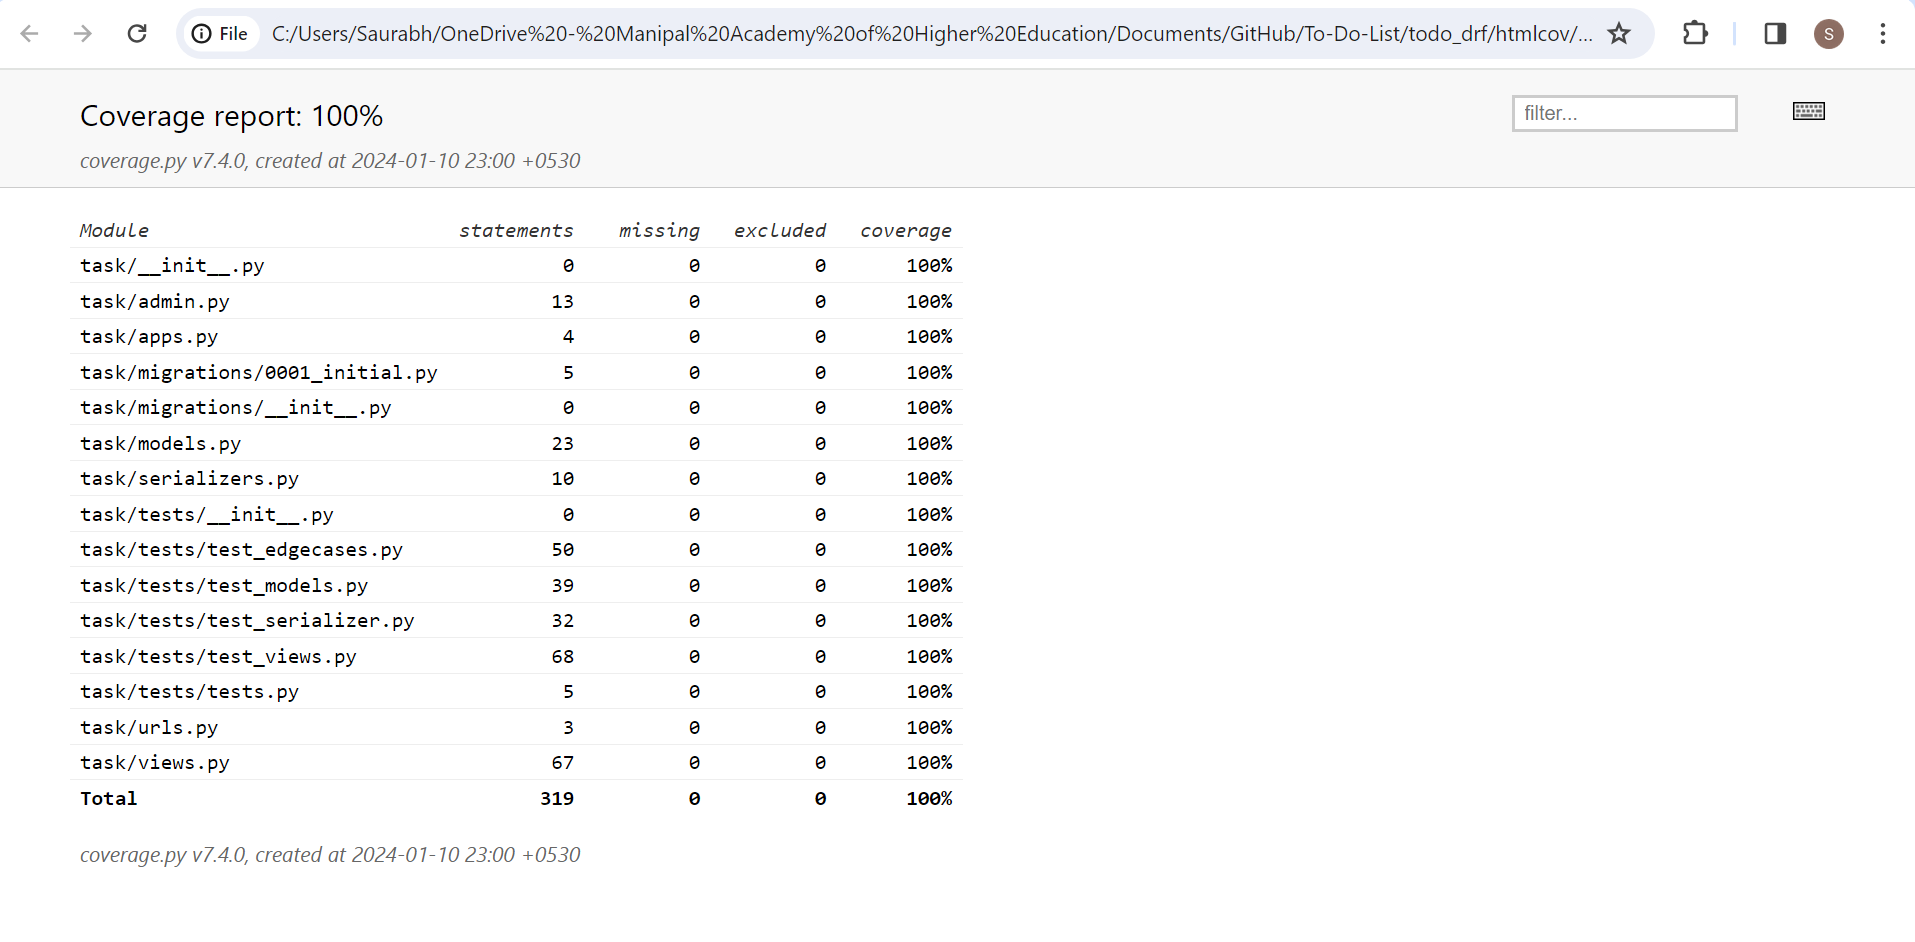
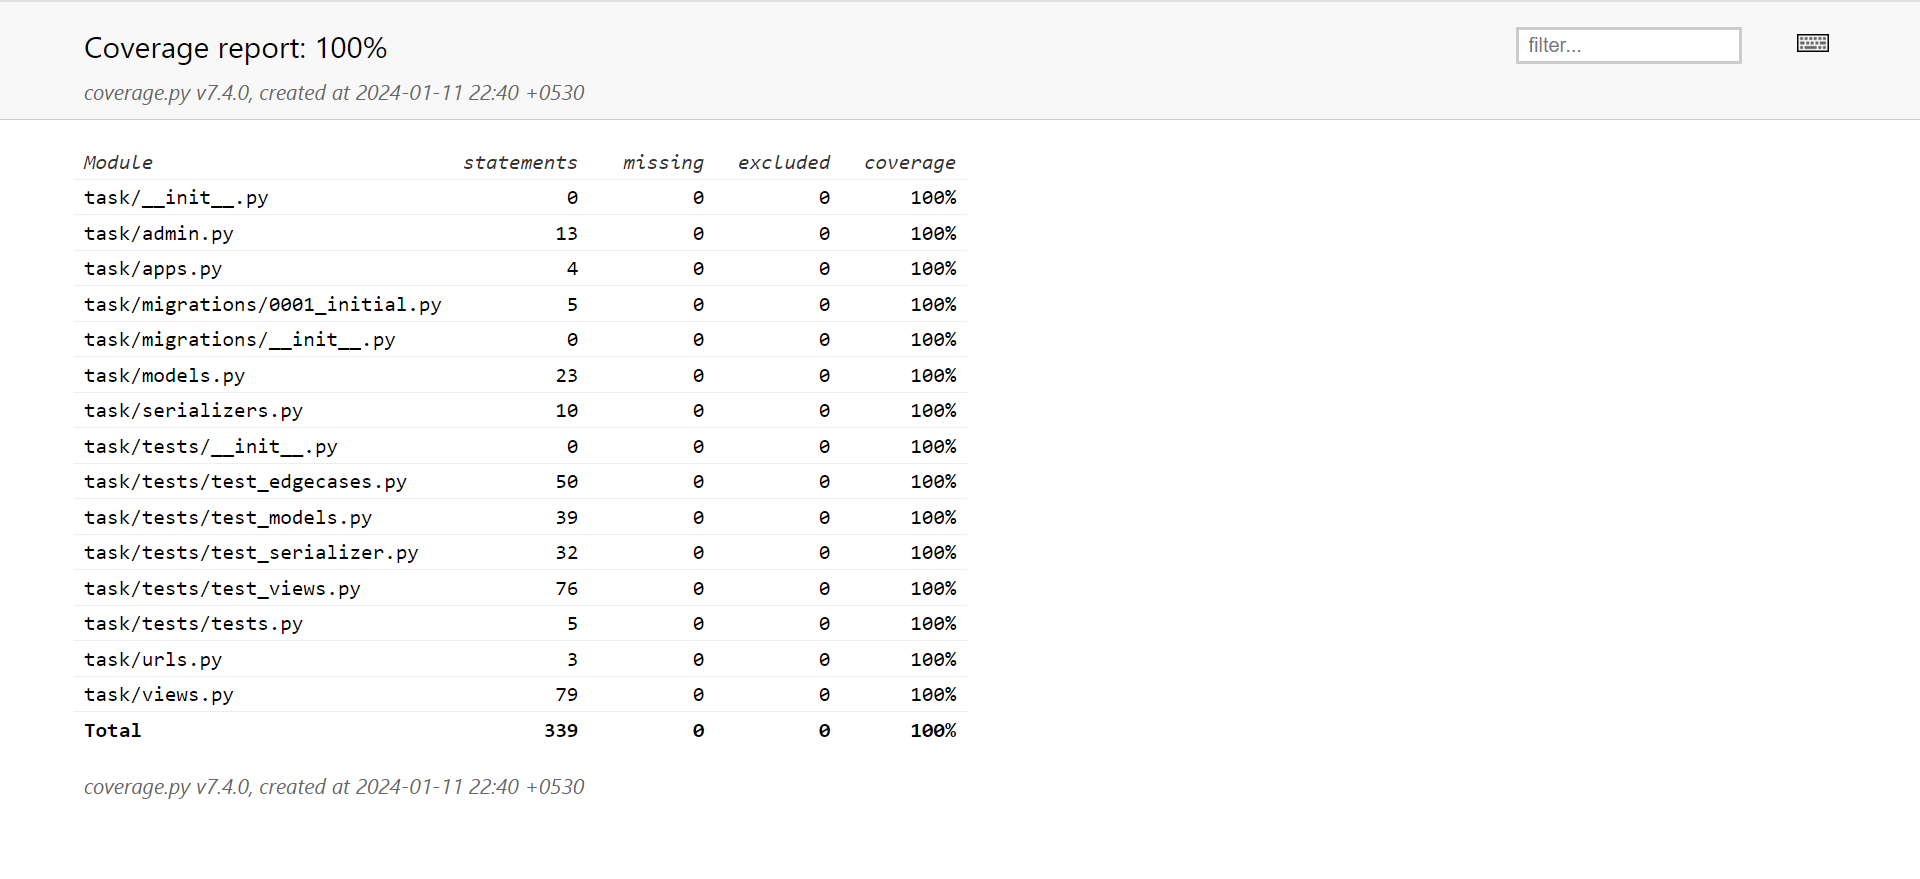
updated views
changed update api to create tags also

diff --git a/todo_drf/task/tests/test_views.py b/todo_drf/task/tests/test_views.py
@@ -104,13 +104,16 @@ class TaskViewsTestCase(TestCase):
             "description": "Updated Description",
             "Due_date": "2024-01-12",
             "status": "OPEN",
+            "tag": ["tag1", "tag2"],
         }
         response = self.client.post(f"/task-update/{task.id}/", data)
+        print(response.data)
         self.assertEqual(response.status_code, status.HTTP_200_OK)
         self.assertEqual(response.data["title"], "Updated Task")
         self.assertEqual(response.data["description"], "Updated Description")
         self.assertEqual(response.data["Due_date"], "2024-01-12")
         self.assertEqual(response.data["status"], "OPEN")
+        self.assertEqual(response.data["tag"], ["tag1", "tag2"])
 
     def test_task_delete(self):
         task = Task.objects.create(
@@ -133,6 +136,32 @@ class TaskViewsTestCase(TestCase):
         self.assertEqual(
             len(response.data), 2
         )  # Assuming there are 2 tags in the database
+
+    def test_task_update_invalid_data(self):
+        # Define invalid data (modify this based on your serializer validation requirements)
+        task = Task.objects.create(
+            title="Task1",
+            description="Description1",
+            Due_date="2024-01-12",
+            status="OPEN",
+        )
+        invalid_data = {
+            "title": "",
+            "description": "",
+            "Due_date": "invalid_date",
+            "status": "INVALID_STATUS",
+        }
+
+        # Make a POST request to the taskCreate endpoint with invalid data
+        response = self.client.post(
+            f"/task-update/{task.id}/", invalid_data, format="json"
+        )
+
+        # Assert that the response status code is 200 (or the appropriate status code)
+        self.assertEqual(response.status_code, status.HTTP_200_OK)
+
+        # Assert that the response contains the expected message for invalid data
+        self.assertEqual(response.data, "Data is invalid")
 
     def test_task_create_invalid_data(self):
         # Define invalid data (modify this based on your serializer validation requirements)

diff --git a/todo_drf/task/views.py b/todo_drf/task/views.py
@@ -53,10 +53,37 @@ class TaskUpdate(APIView):
 
     def post(self, request, pk):
         task = Task.objects.get(id=pk)
-        serializer = TaskSerializer(instance=task, data=request.data)
+        title = request.data.get("title")
+        description = request.data.get("description")
+        due_date = request.data.get("Due_date")
+        status = request.data.get("status")
+        tag_titles = request.data.get("tag", [])
+
+        # Check if the tags exist, create them if not present
+        tags = []
+        for tag_title in tag_titles:
+            tag, created = Tag.objects.get_or_create(
+                title=tag_title, defaults={"id": tag_title}
+            )
+            tags.append(tag)
+
+        # Create a new task with the extracted data and tags
+        task_data = {
+            "title": title,
+            "description": description,
+            "Due_date": due_date,
+            "status": status,
+        }
+
+        # Adding tags to the task data
+        task_data["tag"] = tags
+
+        serializer = TaskSerializer(instance=task, data=task_data)
         if serializer.is_valid():
             serializer.save()
-        return Response(serializer.data)
+            return Response(serializer.data)
+        else:
+            return Response("Data is invalid")
 
 
 class TaskCreate(APIView):
